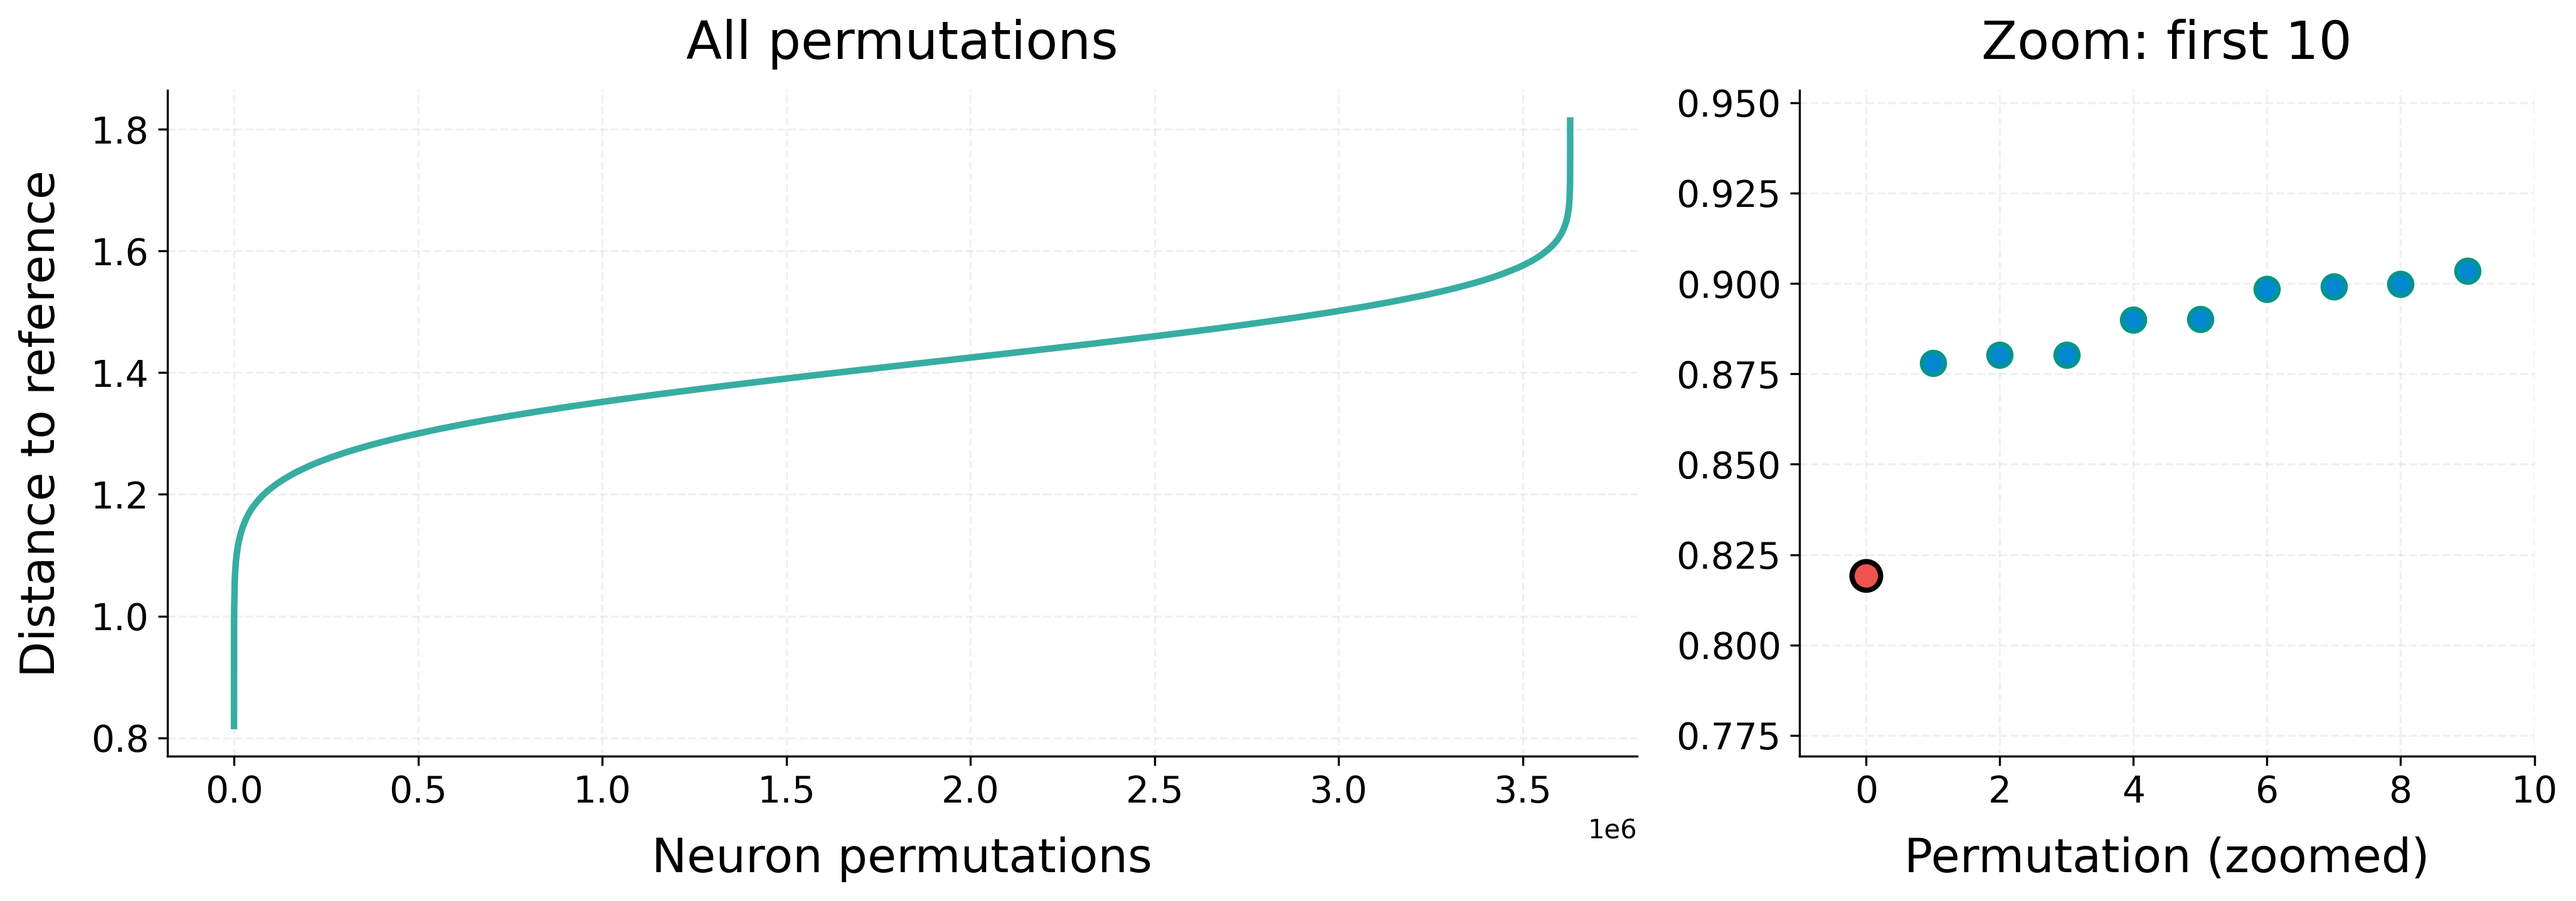
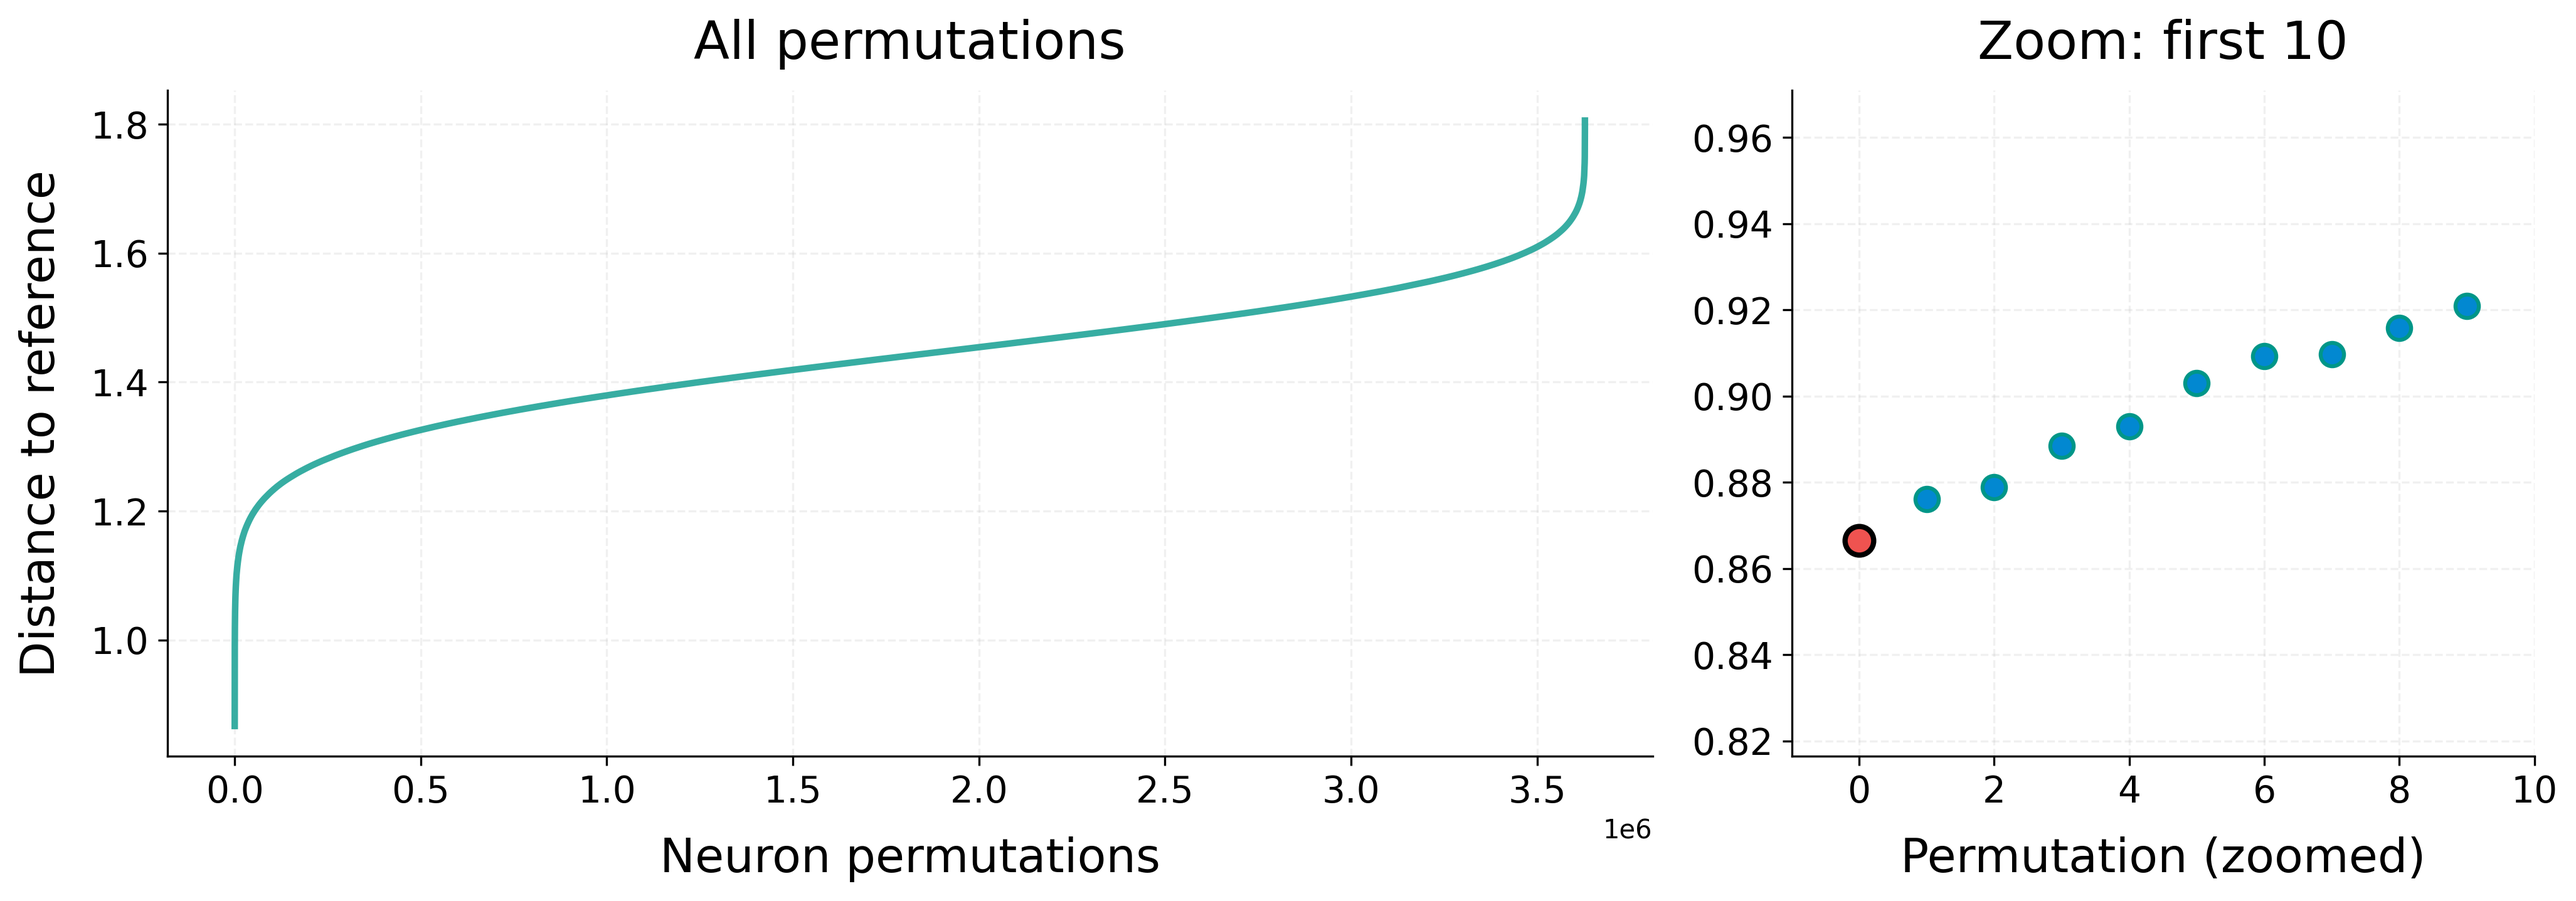
updated perm-distances fig

diff --git a/paper/results.tex b/paper/results.tex
@@ -48,7 +48,7 @@ Figure~\ref{fig:perm-distances} reveals why geometric matching succeeds or fails
         \includegraphics[width=\textwidth]{perm_distances_dropout.png}
         \caption{Dropout training}
     \end{subfigure}
-    \caption{Frobenius distances between test and reference Gram matrices for all permutations of test network output neurons. Red dots indicate the true permutation. Dropout training creates a clear separation between correct and incorrect permutations.}
+    \caption{Frobenius distances between test and reference Gram matrices for all permutations of test network output neurons. Red dots indicate the true permutation. For standard backpropagation (a), even when the true permutation achieves the lowest distance, it does so by only a small margin. Dropout training (b) creates clear separation.}
     \label{fig:perm-distances}
 \end{figure}
 
